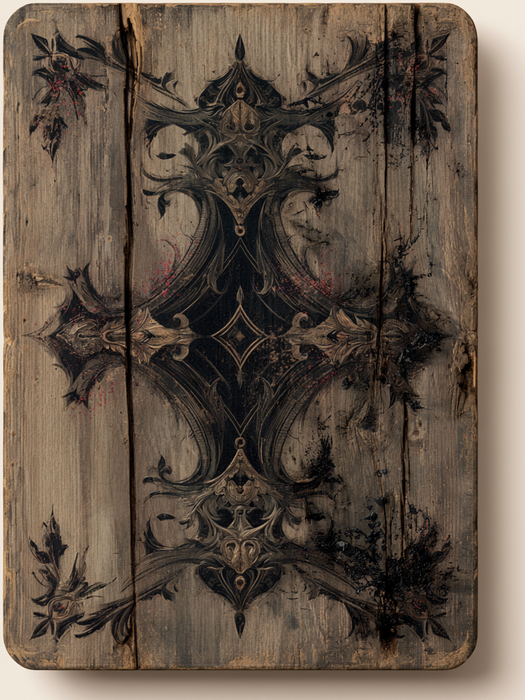
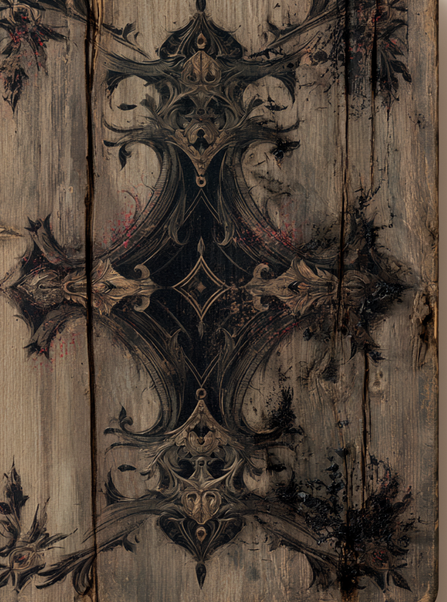
Fix card-back margin, veiled-tag overlap, and minimized-hand hover scroll

diff --git a/style.css b/style.css
@@ -599,11 +599,13 @@ body[data-deal="house"] .hand .cicon { width: 46px; height: 46px; padding: 5px; 
 }
 .backsigil { display: none; } /* no circle on the back */
 .veilband, .knownband {
-  position: absolute; bottom: 5px; left: 4px; right: 4px;
+  position: absolute; bottom: 4px; left: 4px; right: 4px;
   font-size: 9px; text-align: center; font-style: italic;
   background: rgba(0,0,0,0.55); color: var(--parchment-dim);
   border-radius: 4px; padding: 1px 2px;
 }
+/* Lift the name clear of the veiled/known band so they don't overlap. */
+.card.veiled { padding-bottom: 24px; }
 .knownband { color: var(--gold); }
 
 .stonerow {
@@ -627,6 +629,12 @@ body[data-deal="house"] .hand .cicon { width: 46px; height: 46px; padding: 5px; 
 }
 .card.selected { outline: 2px solid var(--sage); transform: translateY(-7px); }
 .card.selected:hover { transform: translateY(-7px) scale(1.85); z-index: 60; transition: transform 0.1s ease-out; transition-delay: 1s; }
+/* The minimized tray is a tight scrolling row — a zoom there just spawns
+   scrollbars, so leave those small cards alone on hover. */
+.handarea.min .card:hover, .handarea.min .card.targetable:hover {
+  transform: none; z-index: auto; transition-delay: 0s;
+  box-shadow: 0 3px 7px rgba(0,0,0,0.6);
+}
 
 .card.flash { animation: cardflash 1.5s ease-out; }
 @keyframes cardflash {
@@ -648,7 +656,7 @@ body[data-deal="house"] .hand .cicon { width: 46px; height: 46px; padding: 5px; 
 .card.tradepair { outline: 2px dashed #7aa6c6; outline-offset: 3px; }
 
 /* hand cards larger — the hand is the main interaction surface */
-.hand .card { width: 96px; height: 132px; padding-top: 16px; }
+.hand .card { width: 96px; height: 132px; padding-top: 16px; transform-origin: bottom center; }
 .hand .cicon { width: 58px; height: 58px; padding: 7px; }
 .hand .cname { font-size: 15px; margin-top: 6px; }
 

diff --git a/index.html b/index.html
@@ -6,7 +6,7 @@
 <title>Stonelock — A Game of Regional Leverage</title>
 <link rel="preconnect" href="https://fonts.googleapis.com">
 <link href="https://fonts.googleapis.com/css2?family=Cinzel:wght@500;600;700&family=Alegreya:ital,wght@0,400;0,500;0,600;0,700;1,400;1,500&display=swap" rel="stylesheet">
-<link rel="stylesheet" href="style.css?v=49">
+<link rel="stylesheet" href="style.css?v=50">
 </head>
 <body>
 
@@ -291,6 +291,6 @@
   </div>
 </div>
 
-<script src="game.js?v=49"></script>
+<script src="game.js?v=50"></script>
 </body>
 </html>

diff --git a/game.js b/game.js
@@ -1970,6 +1970,7 @@ function cardEl(card) {
       <div class="cname">${card.type}</div>
       <div class="cval val-${regionVal(card.type)}">${regionVal(card.type)}</div>`;
     if (!card.faceUp) {
+      el.classList.add('veiled');
       const v = document.createElement('div');
       v.className = 'veilband';
       v.textContent = 'veiled';
